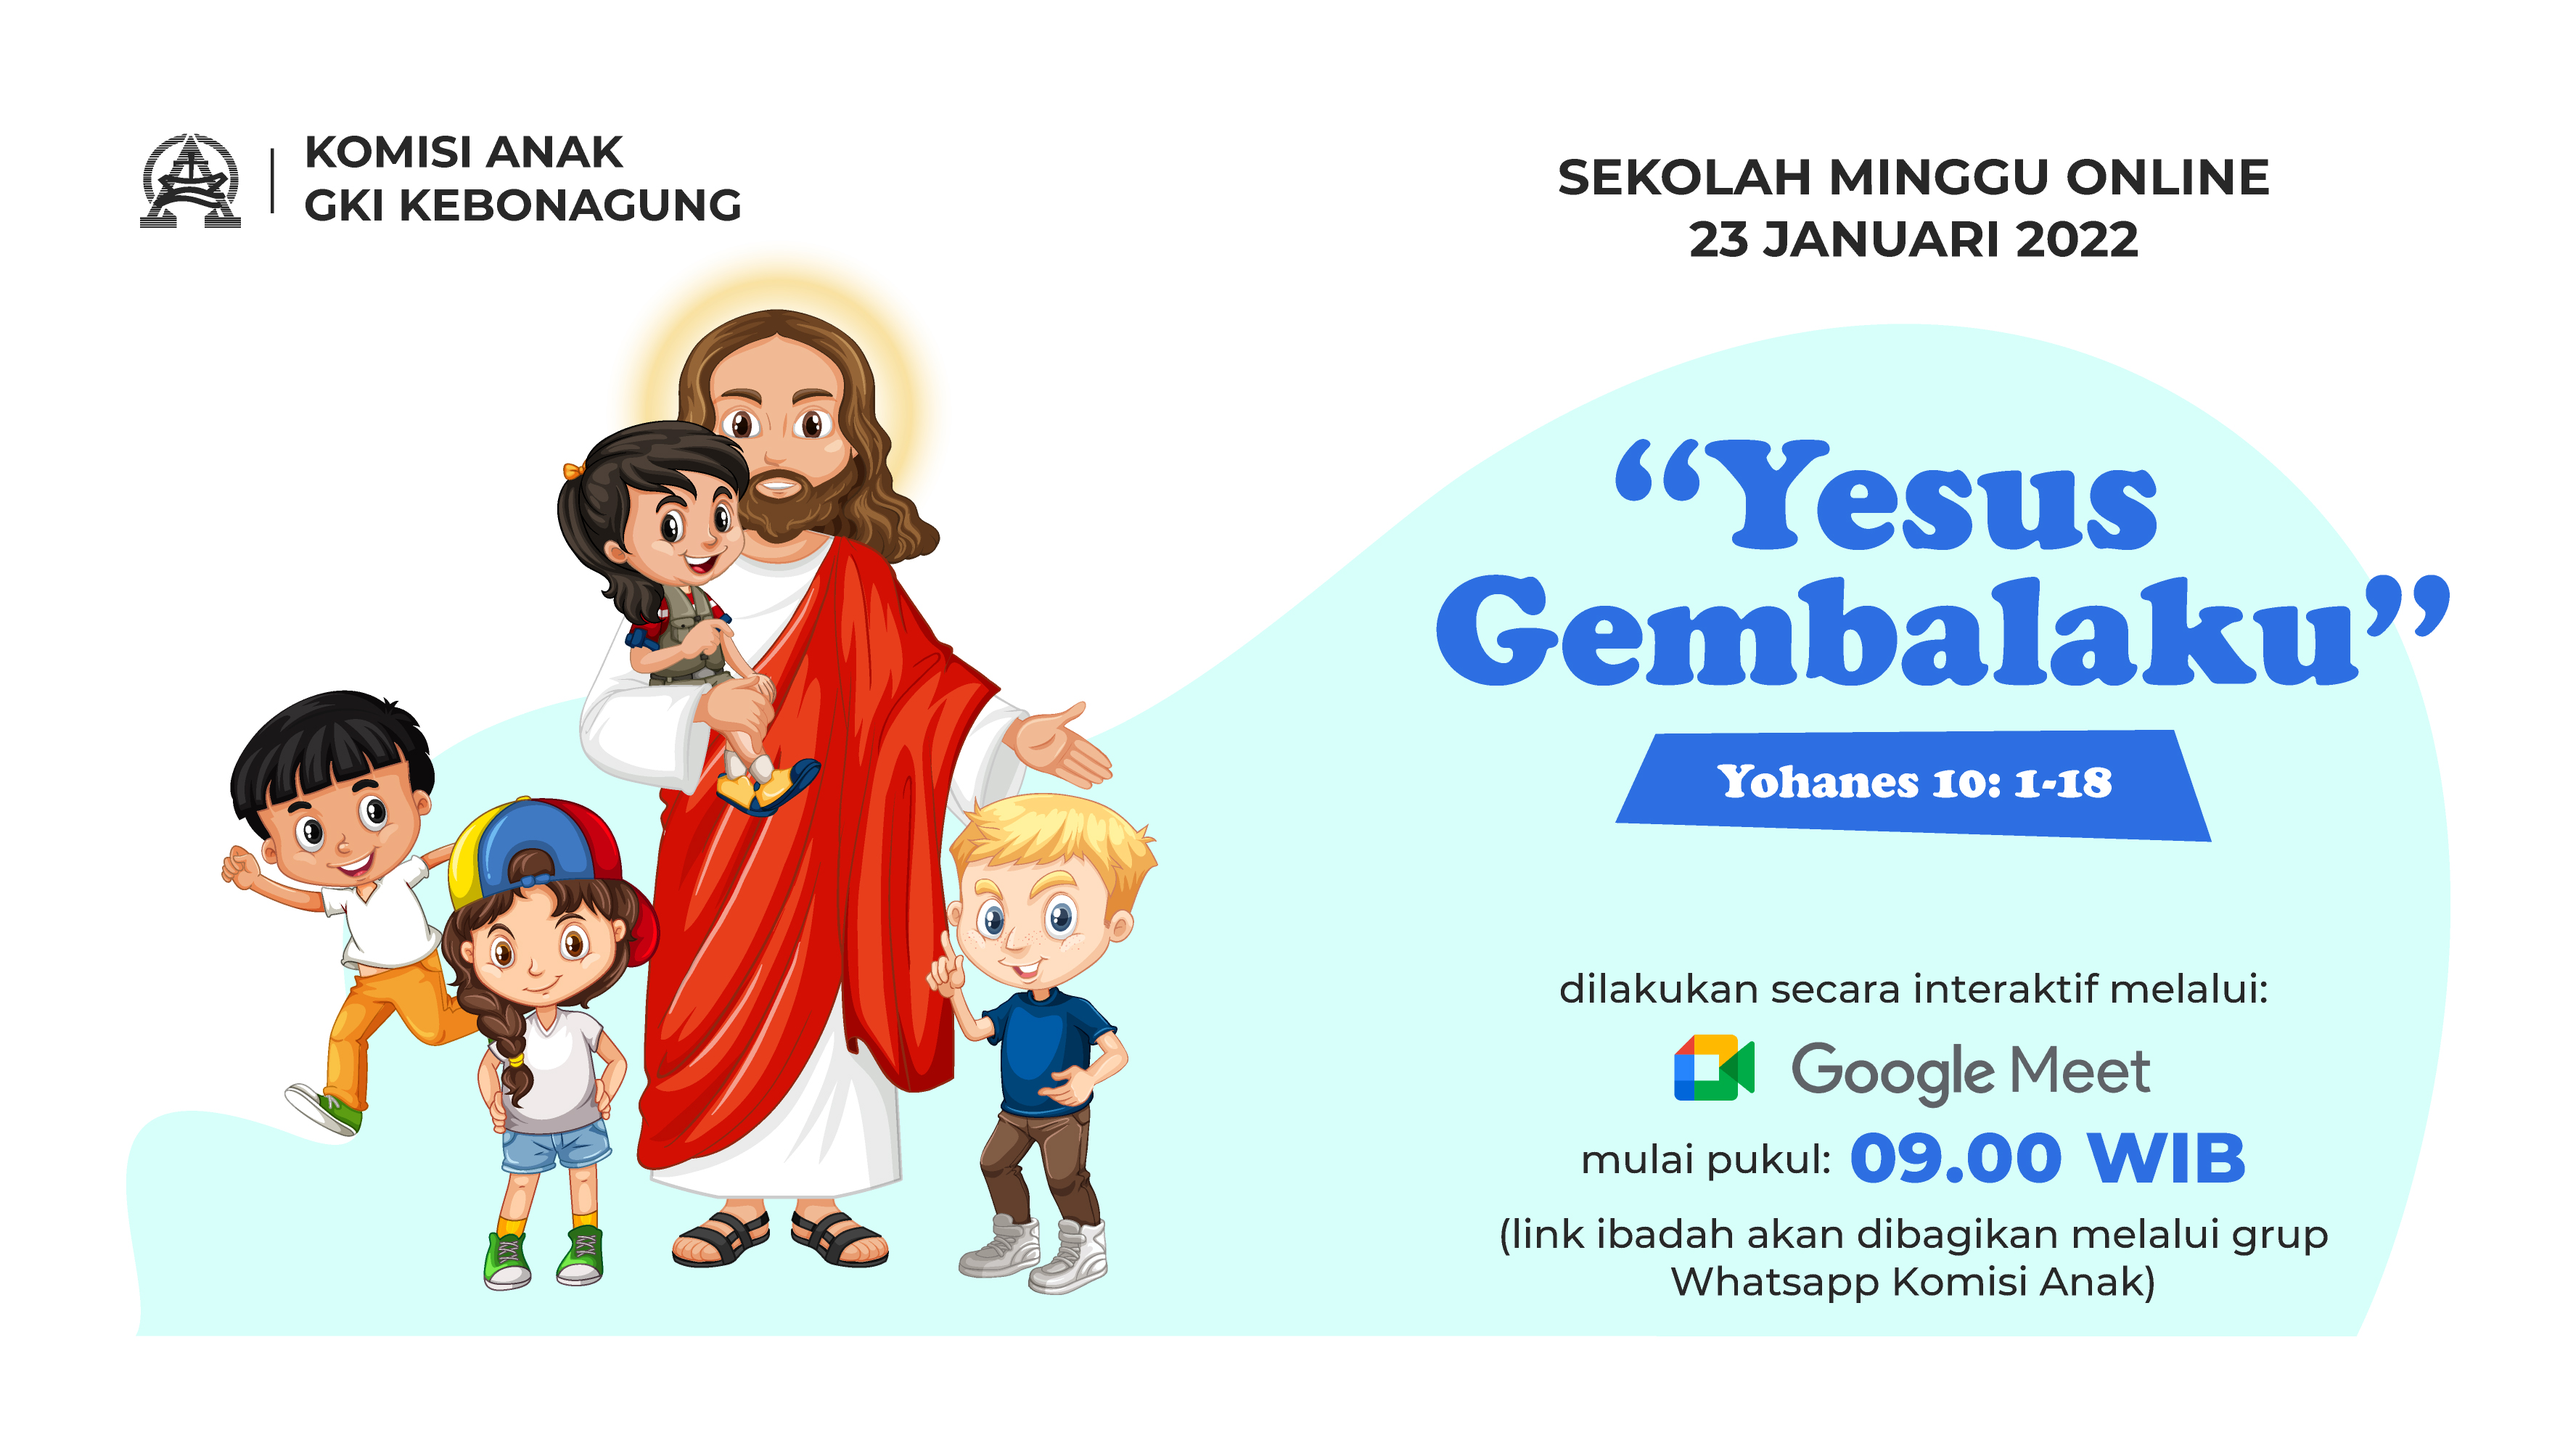
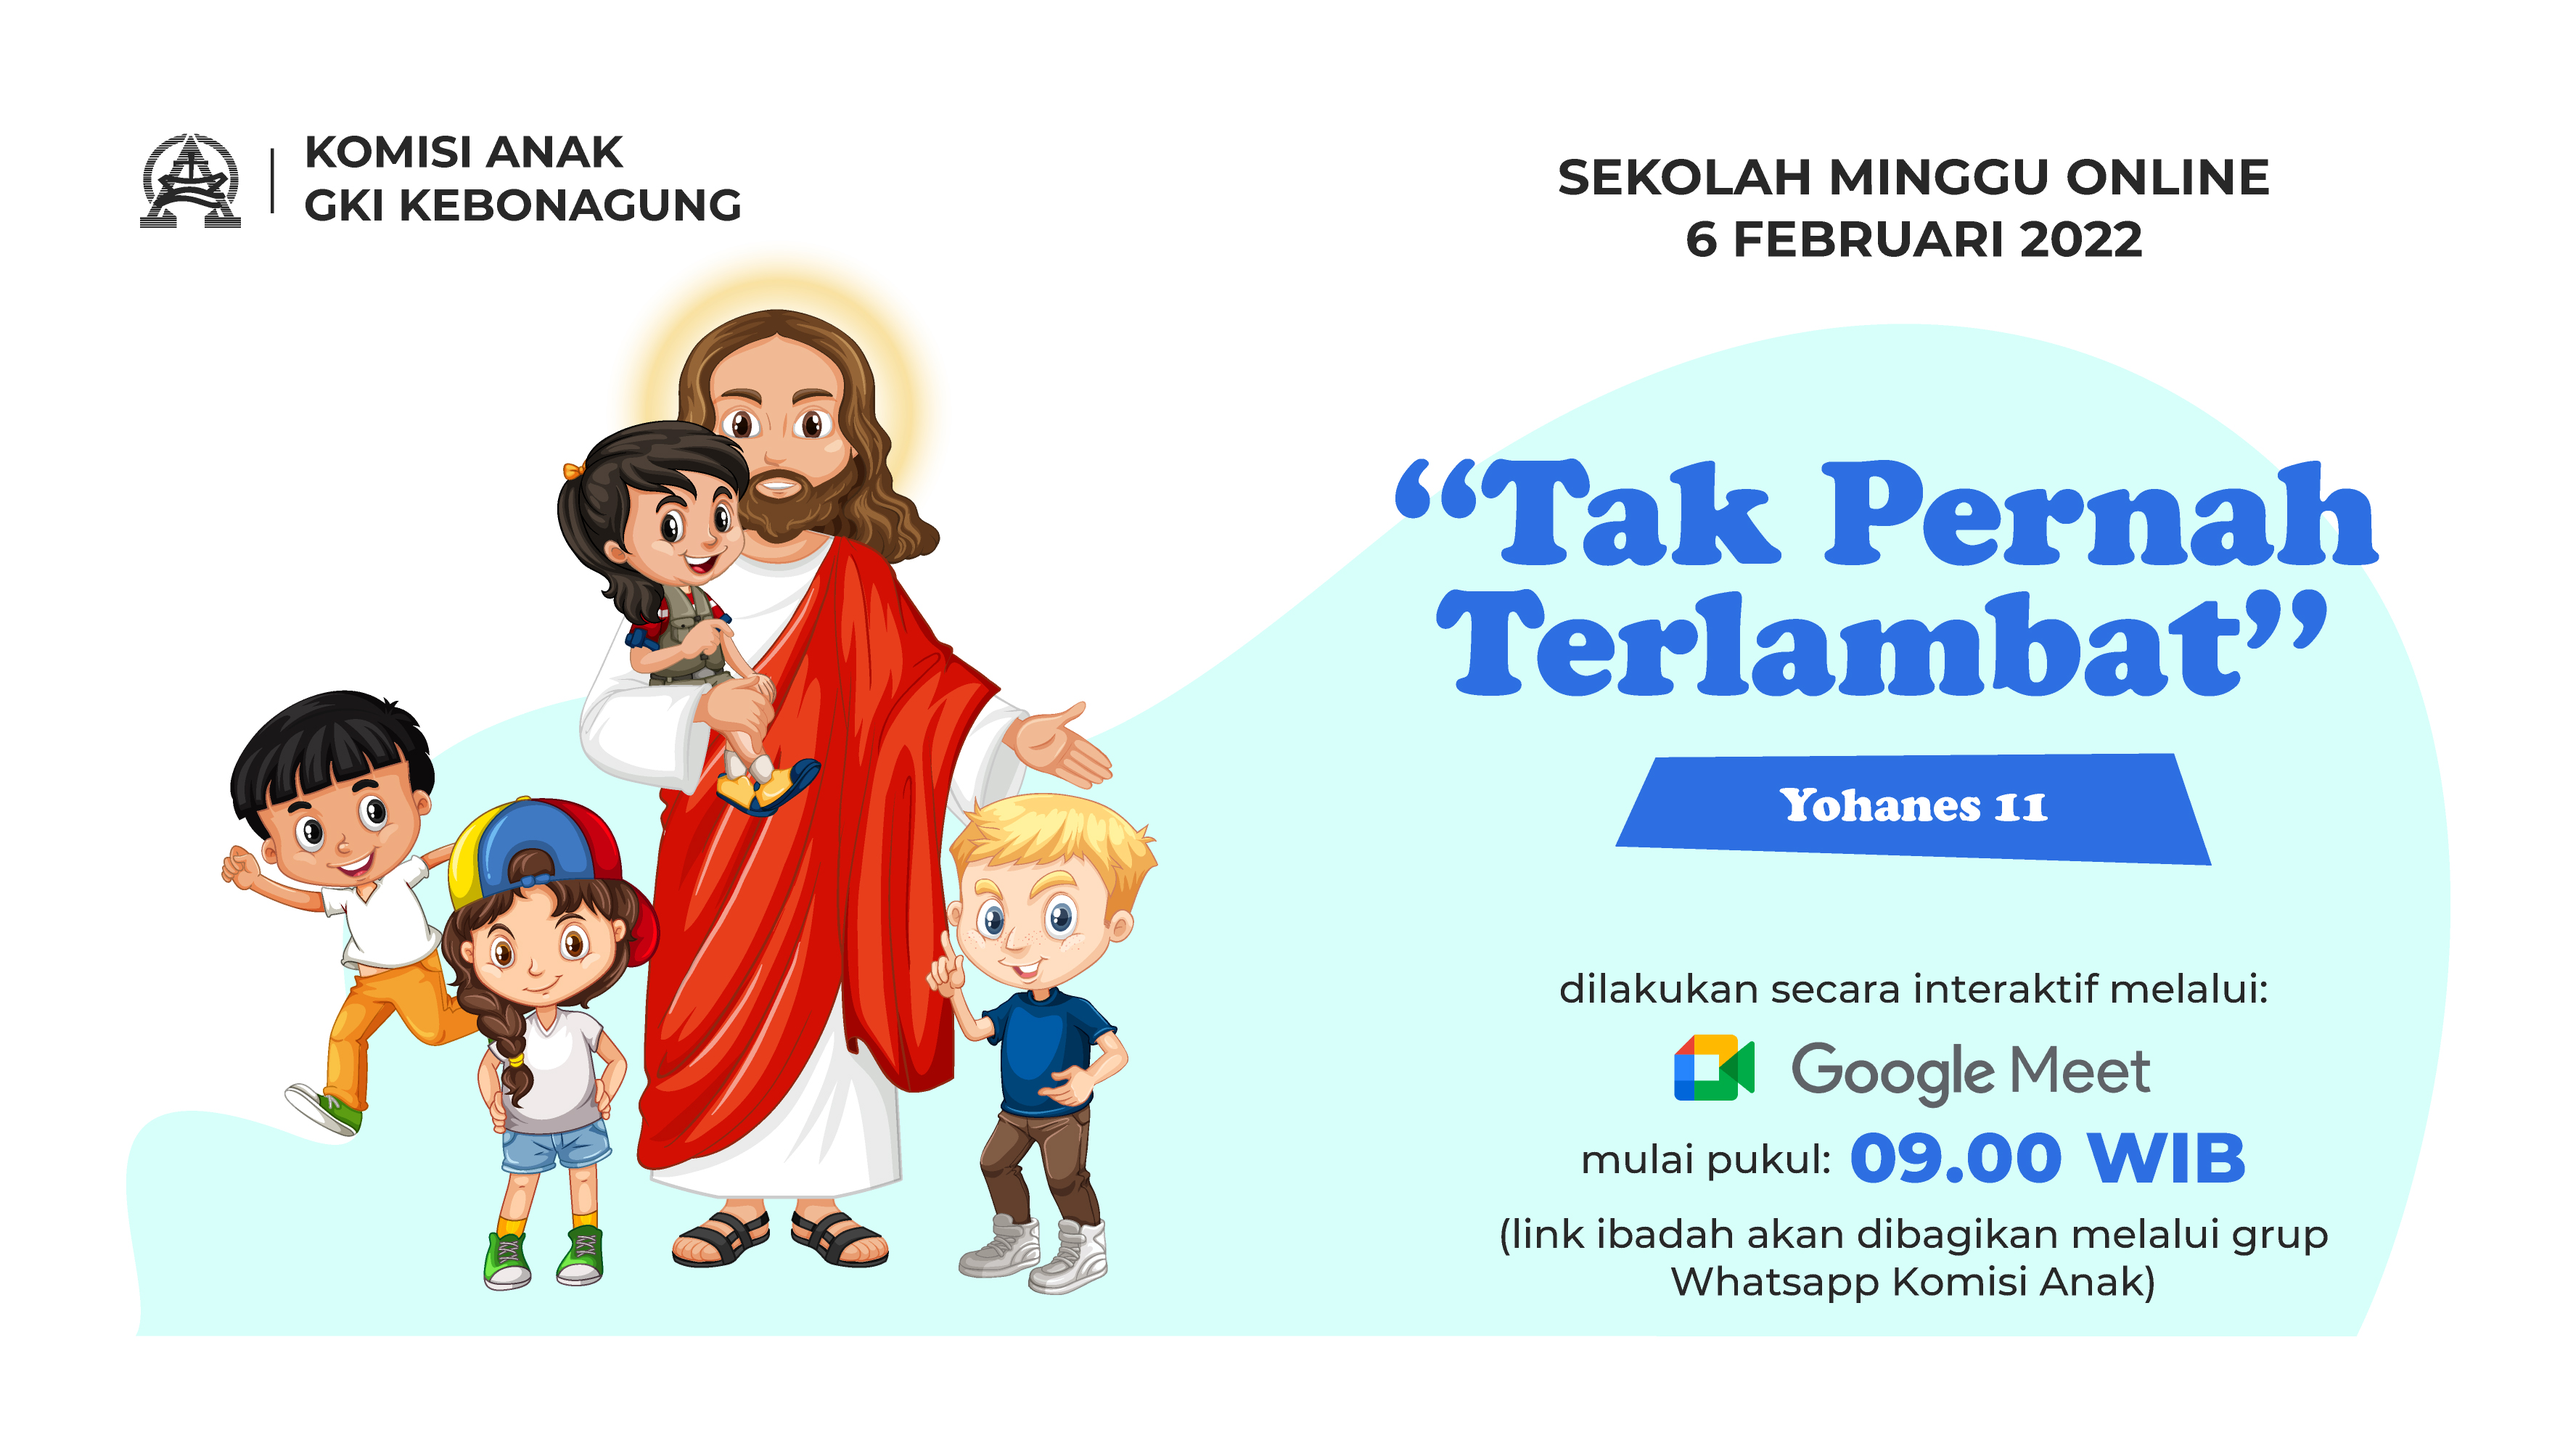
1

Changed region(s): [[0.5268, 0.279, 0.9606, 0.62], [0.6507, 0.155, 0.8366, 0.186]]

diff --git a/application/views/Front/vLandingpage.php b/application/views/Front/vLandingpage.php
@@ -98,23 +98,23 @@
                     <div class="mt-5">
                         <div class="card text-center shadow mx-3">
                             <!-- UBAH -->
-                            <a href="https://youtu.be/k6DnIy7SD7s" target="_blank" class="text-decoration-none">
+                            <a href="https://youtu.be/LObtVyfdY1Y" target="_blank" class="text-decoration-none">
                                 <img src="<?= base_url() ?>front/assets/img/umum.jpg" class="card-img-top">
                             </a>
                             <div class="card-body">
-                                <h4 class="card-title">Ibadah Peneguhan dan Pemberkatan Nikah</h4>
+                                <h4 class="card-title">Ibadah Umum</h4>
                                 <!-- UBAH -->
-                                <p class="card-text"><b>Rendy Kurniawan<br>&<br>Cynthia Prisca Sari</b><br>Rabu, 2 Februari 2022 - 10.00 WIB<br>Pdt. Imanuel Gunawan Prasidi</p>
+                                <p class="card-text">"Dipanggil Jangan Menolak"<br>Minggu, 6 Februari 2022 - 07.00 WIB<br>Sdri. Nella Simamora</p>
                             </div>
                             <div class="card-body">
                                 <!-- UBAH -->
                                 <!-- <a href="<?= base_url() ?>Fronts/pilihOnsite" class="btn btn-primary mb-2 px-5 mx-1" style="border-radius: 10rem; font-size: 11pt">Onsite</a> -->
-                                <a href="https://youtu.be/k6DnIy7SD7s" target="_blank" class="btn btn-primary mb-2 px-5 mx-1" style="border-radius: 10rem; font-size: 11pt">Online</a>
+                                <a href="https://youtu.be/LObtVyfdY1Y" target="_blank" class="btn btn-primary mb-2 px-5 mx-1" style="border-radius: 10rem; font-size: 11pt">Online</a>
                             </div>
                         </div>
                     </div>
                 </div>
-                <div class="col-lg-4 text-center d-none">
+                <div class="col-lg-4 text-center">
                     <div class="mt-5">
                         <div class="card text-center shadow mx-3">
                             <!-- UBAH -->
@@ -124,7 +124,7 @@
                             <div class="card-body">
                                 <h4 class="card-title">Sekolah Minggu</h4>
                                 <!-- UBAH -->
-                                <p class="card-text">"Yesus Gembalaku"<br>Minggu, 23 Januari 2022 - 09.00 WIB<br>Kak Agnes dan Ibu Yeussy</p>
+                                <p class="card-text">"Tak Pernah Terlambat"<br>Minggu, 6 Februari 2022 - 09.00 WIB<br>Bu Datik dan Bu Wiwit</p>
                             </div>
                             <div class="card-body">
                                 <!-- UBAH -->
@@ -258,7 +258,7 @@
                         <div class="mb-2"><i class="bi bi-file-earmark-text fs-1 text-primary"></i></div>
                         <h3 class="h4 mb-2">Warta Jemaat</h3>
                         <!-- UBAH -->
-                        <a class="text-decoration-none" href="<?= base_url() ?>front/assets/docs/warta.docx" download="Warta Jemaat 23 Januari 2022">
+                        <a class="text-decoration-none" href="<?= base_url() ?>front/assets/docs/warta.docx" download="Warta Jemaat 6 Februari 2022">
                             <span class="h6 text-light"><i class="bi bi-download fs-4 mx-1"></i>
                                 Download
                             </span>
@@ -270,7 +270,7 @@
                         <div class="mb-2"><i class="bi bi-file-earmark-text fs-1 text-primary"></i></div>
                         <h3 class="h4 mb-2">Liturgi Ibadah Umum</h3>
                         <!-- UBAH -->
-                        <a class="text-decoration-none" href="<?= base_url() ?>front/assets/docs/liturgi.docx" download="Liturgi Ibadah 23 Januari 2022"> <span class="h6 text-light"><i class="bi bi-download fs-4 mx-1"></i>
+                        <a class="text-decoration-none" href="<?= base_url() ?>front/assets/docs/liturgi.docx" download="Liturgi Ibadah 6 Februari 2022"> <span class="h6 text-light"><i class="bi bi-download fs-4 mx-1"></i>
                                 Download
                             </span>
                         </a>
